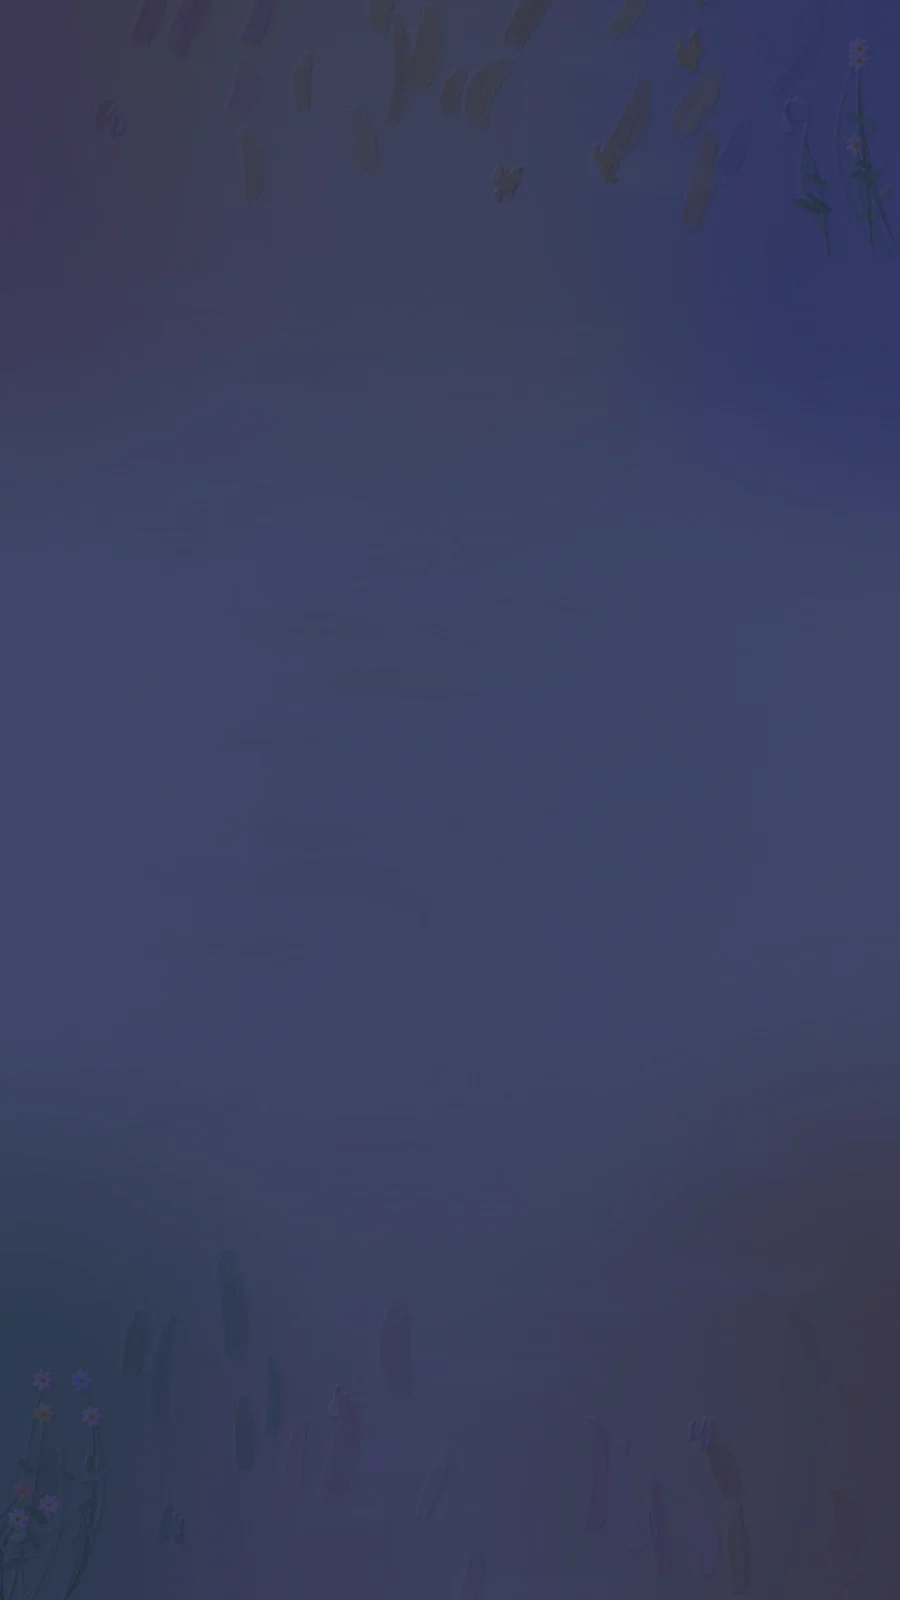
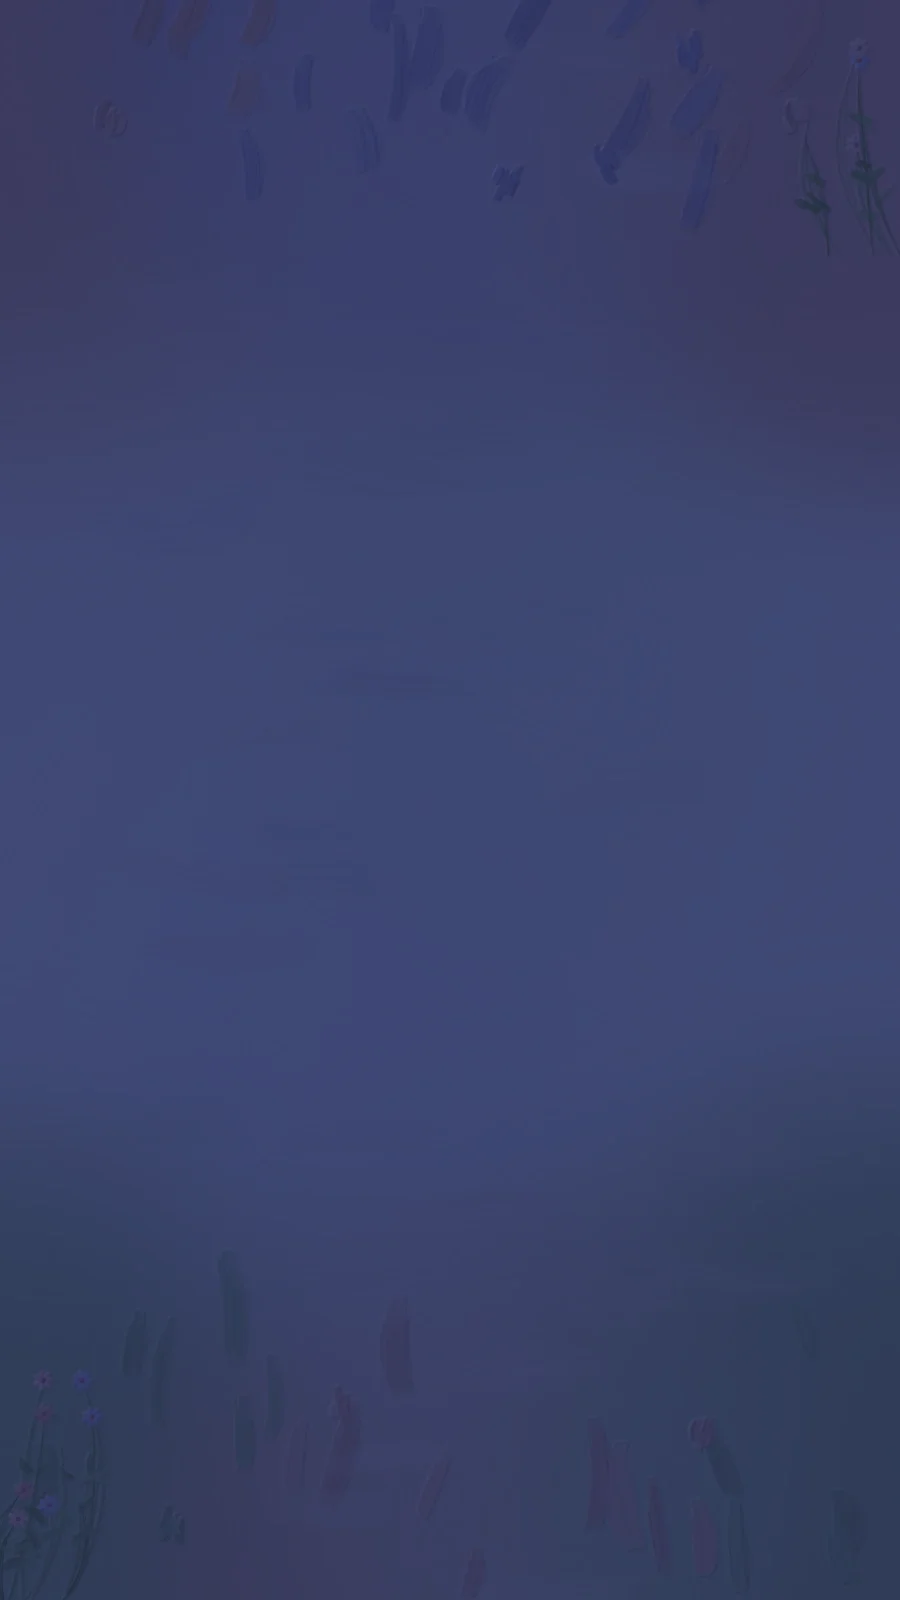
Three-colour case-study backdrop, no grass clumps at night, cute firefly
The case-study backdrop is repainted in three colours (blush rose, sage,
soft lavender) on a clean ivory ground: no yellow, orange or ochre left,
still blended and painterly (night versions regraded). Scene 2's loose
grass clumps fade away at night instead of turning muddy. The night
cursor is redrawn as an unmistakable firefly: round head with bright eyes
and curled antennae, veined wings that flutter in flight, and a plump
honey-gold tail glowing in a soft, breathing halo; its head stays on the
click point.

diff --git a/src/app/globals.css b/src/app/globals.css
@@ -297,6 +297,9 @@ html[data-night] .night-sky__details { opacity: 1; transition-delay: 0.9s; }
 /* the painted figures (dogs, sails, water, chair, table) dim into the moonlight alongside the painting */
 .landing-scenes > section > div:not(.night-sky) img { transition: filter var(--dusk); }
 html[data-night] .landing-scenes > section > div:not(.night-sky) img { filter: brightness(0.6) saturate(0.55) hue-rotate(-8deg); }
+/* the loose grass clumps don't belong to the quiet night: they fade away with the dusk and return by day */
+.landing-scenes .living-tuft { transition: opacity 1.4s ease, filter var(--dusk); }
+html[data-night] .landing-scenes .living-tuft { opacity: 0; }
 /* the title, moonlit: a simple brightness lift (no glow filters to animate) */
 html[data-night] .pt-paint { filter: brightness(1.42) saturate(0.9); }
 html[data-night] .pt-letter:hover .pt-paint { filter: brightness(1.6) saturate(0.95); }
@@ -349,30 +352,33 @@ html[data-night] .lamppost__pool { opacity: 1; }
 .lamppost:is(:hover, :focus-visible) .lamppost__hint { opacity: 1; transform: translateX(0) rotate(-3deg); }
 html[data-night-ink] .lamppost__hint { color: #fbf0d6; text-shadow: 0 0 10px rgb(18 24 44 / 0.95), 0 1px 2px rgb(18 24 44 / 0.9); }
 
-/* the firefly cursor: a small insect, its tail glowing warm gold, brighter while it flies */
-.butterfly__firefly { position: absolute; width: 16px; transform: translate(-50%, -12%); opacity: 0; transition: opacity 0.8s ease; pointer-events: none; }
+/* the firefly cursor: a cute little firefly (head on the click point), its plump tail glowing honey-gold
+   inside a soft warm halo that breathes, brightening while it flies */
+.butterfly__firefly { position: absolute; width: 24px; transform: translate(-50%, -16%); opacity: 0; transition: opacity 0.8s ease; pointer-events: none; }
 html[data-night-ink] .butterfly__firefly { opacity: 1; }
-.firefly__bug { position: relative; display: block; width: 100%; overflow: visible; }
-.firefly__wing { fill: rgb(236 240 255 / 0.55); stroke: rgb(255 255 255 / 0.5); stroke-width: 0.6; transform-origin: 10px 7px; }
-.butterfly[data-state="moving"] .firefly__wing--l { animation: ff-wing 0.12s ease-in-out infinite alternate; }
-.butterfly[data-state="moving"] .firefly__wing--r { animation: ff-wing 0.12s ease-in-out infinite alternate-reverse; }
-@keyframes ff-wing { from { transform: rotate(-14deg); } to { transform: rotate(10deg); } }
-.firefly__tail { fill: #fff2a8; filter: drop-shadow(0 0 2px #ffe27a); }
+.firefly__bug { position: relative; display: block; width: 100%; overflow: visible; filter: drop-shadow(0 0 1px rgb(255 248 220 / 0.6)); }
+.firefly__wing { transform-box: fill-box; transition: transform 0.2s ease; }
+.firefly__wing--l { transform-origin: 100% 30%; }
+.firefly__wing--r { transform-origin: 0% 30%; }
+.butterfly[data-state="moving"] .firefly__wing--l { animation: ff-wing-l 0.11s ease-in-out infinite alternate; }
+.butterfly[data-state="moving"] .firefly__wing--r { animation: ff-wing-r 0.11s ease-in-out infinite alternate; }
+@keyframes ff-wing-l { from { transform: rotate(8deg) scaleX(1); } to { transform: rotate(-16deg) scaleX(0.7); } }
+@keyframes ff-wing-r { from { transform: rotate(-8deg) scaleX(1); } to { transform: rotate(16deg) scaleX(0.7); } }
 .firefly__halo {
   position: absolute;
   left: 50%;
-  top: 72%;
-  width: 34px;
+  top: 69%;
+  width: 46px;
   aspect-ratio: 1;
   transform: translate(-50%, -50%);
   border-radius: 50%;
-  background: radial-gradient(closest-side, rgb(255 236 150 / 0.75), rgb(255 222 120 / 0.28) 50%, rgb(255 222 120 / 0));
-  opacity: 0.7;
+  background: radial-gradient(closest-side, rgb(255 244 170 / 0.9), rgb(255 226 120 / 0.42) 42%, rgb(255 214 100 / 0.12) 72%, rgb(255 214 100 / 0));
+  opacity: 0.8;
   transition: opacity 0.4s ease, scale 0.4s ease;
-  animation: firefly-breathe 2.8s ease-in-out infinite;
+  animation: firefly-breathe 2.6s ease-in-out infinite;
 }
-.butterfly[data-state="moving"] .firefly__halo { opacity: 1; scale: 1.2; }
-@keyframes firefly-breathe { 0%, 100% { scale: 1; } 50% { scale: 0.85; } }
+.butterfly[data-state="moving"] .firefly__halo { opacity: 1; scale: 1.15; }
+@keyframes firefly-breathe { 0%, 100% { scale: 1; } 50% { scale: 0.86; } }
 .butterfly__perch { transition: transform 0.25s ease, opacity 0.8s ease; }
 html[data-night-ink] .butterfly__perch { opacity: 0; }
 
@@ -741,6 +747,7 @@ html.butterfly-cursor :is(a, button, [role="button"], input, select, textarea, l
   html { scroll-behavior: auto; }
   .pt-paint { transition: none; }
   .night-sky__star, .night-sky__fly, .firefly__halo, .firefly__wing { animation: none !important; }
+  .landing-scenes .living-tuft { transition: none; }
   .night-sky, .night-sky__details, .work-night, .journal-backdrop::after { transition-duration: 0.01s !important; }
   .sway, .drift, .blades, .bubble, .bloom, .garden-sign__board, .living-dog, .living-tail, .living-ball, .living-rocker, .living-water-a, .living-water-b, .living-drop,
   .pt-rise, .work-glow, .work-cue, .work-layer, .work-girl__body, .work-bubble, .work-heart, .work-ripple,

diff --git a/src/components/landing/ButterflyCursor.tsx b/src/components/landing/ButterflyCursor.tsx
@@ -74,12 +74,35 @@ export default function ButterflyCursor() {
       {/* at night the butterfly becomes a firefly: a small warm glow at the very same click point */}
       <span className="butterfly__firefly" style={{ left: `${HOT[0] * 100}%`, top: `${HOT[1] * 100}%` }}>
         <span className="firefly__halo" />
-        <svg viewBox="0 0 20 30" className="firefly__bug">
-          <ellipse className="firefly__wing firefly__wing--l" cx="6" cy="10" rx="5" ry="7.5" />
-          <ellipse className="firefly__wing firefly__wing--r" cx="14" cy="10" rx="5" ry="7.5" />
-          <ellipse cx="10" cy="11" rx="3" ry="6" fill="#3a3320" />
-          <circle cx="10" cy="3.6" r="2.6" fill="#2a2416" />
-          <ellipse className="firefly__tail" cx="10" cy="21" rx="4" ry="6" />
+        <svg viewBox="0 0 40 52" className="firefly__bug">
+          <defs>
+            <radialGradient id="ff-glow" cx="50%" cy="45%" r="55%">
+              <stop offset="0%" stopColor="#fffdf0" />
+              <stop offset="45%" stopColor="#fff09a" />
+              <stop offset="100%" stopColor="#f3c84a" />
+            </radialGradient>
+          </defs>
+          {/* wings: translucent, softly veined, fluttering while it flies */}
+          <g className="firefly__wing firefly__wing--l">
+            <path d="M18 17 C 6 10, 1 18, 4 26 C 8 31, 15 26, 18 21 Z" fill="rgb(232 238 255 / 0.62)" stroke="rgb(255 255 255 / 0.75)" strokeWidth="0.8" />
+            <path d="M16 19 C 11 18, 7 21, 6 24" fill="none" stroke="rgb(255 255 255 / 0.55)" strokeWidth="0.6" />
+          </g>
+          <g className="firefly__wing firefly__wing--r">
+            <path d="M22 17 C 34 10, 39 18, 36 26 C 32 31, 25 26, 22 21 Z" fill="rgb(232 238 255 / 0.62)" stroke="rgb(255 255 255 / 0.75)" strokeWidth="0.8" />
+            <path d="M24 19 C 29 18, 33 21, 34 24" fill="none" stroke="rgb(255 255 255 / 0.55)" strokeWidth="0.6" />
+          </g>
+          {/* antennae with little curls */}
+          <path d="M18 7 C 16 3, 13 2, 11 3.5" fill="none" stroke="#3a2c22" strokeWidth="1.3" strokeLinecap="round" />
+          <path d="M22 7 C 24 3, 27 2, 29 3.5" fill="none" stroke="#3a2c22" strokeWidth="1.3" strokeLinecap="round" />
+          {/* the glowing tail, plump and round */}
+          <ellipse className="firefly__tail" cx="20" cy="36" rx="8" ry="10" fill="url(#ff-glow)" />
+          <ellipse cx="20" cy="33" rx="3.2" ry="3.6" fill="#fffef6" opacity="0.9" />
+          {/* body and head */}
+          <ellipse cx="20" cy="21" rx="5.5" ry="6" fill="#4a3829" />
+          <circle cx="20" cy="10" r="5.2" fill="#3a2c22" />
+          <circle cx="18" cy="9.4" r="1.1" fill="#fff8e6" />
+          <circle cx="22" cy="9.4" r="1.1" fill="#fff8e6" />
+          <path d="M18.6 12.2 Q 20 13.2 21.4 12.2" fill="none" stroke="#f4b5a8" strokeWidth="0.8" strokeLinecap="round" />
         </svg>
       </span>
       <span className="butterfly__perch block">

diff --git a/docs/FOUR-PAGE-STRUCTURE.md b/docs/FOUR-PAGE-STRUCTURE.md
@@ -55,9 +55,9 @@ Removed (all recoverable from the tag): the homepage sections `GardenGate`, `Gar
 
 The Landing statements live in `src/data/site.ts` → `landingScenes`. Edit them there.
 - **Case studies (Dog Nutrition Tracker, Eliminate Bacteria Pro, Little Moments).** Each is a page from the garden's
-  field journal: a fixed oil-painted backdrop (a calm cream reading area framed by large, soft fields of blush,
-  coral, muted orange, golden yellow, sage, moss and a little lavender, with selective brushwork, a few impasto
-  passes and painted stems at the edges; `node scripts/paint-landing.mjs --journal`), contents in the margin, sage vines under headings and
+  field journal: a fixed oil-painted backdrop in three colours — blush rose, sage and soft lavender — blending
+  gradually into a calm, faintly brushed ivory reading area, with selective brushwork, a few impasto passes and
+  painted stems at the edges; `node scripts/paint-landing.mjs --journal`), contents in the margin, sage vines under headings and
   leaf bullets. Project images sit straight on the page with no card, border or tape; only those with an opaque
   background get a faint, diffused neutral shadow. The images themselves are untouched.
 - **Landing title and cursor.** "A Garden of Ideas" is hand-lettered with a brush in oil, lowercase on two staggered
@@ -75,7 +75,8 @@ The Landing statements live in `src/data/site.ts` → `landingScenes`. Edit them
   area reaches past the slender post. Clicking runs one coordinated dusk (`night.ts`): the lamp lights, the scenes
   cross-fade (2.2 s) to pre-painted moonlit versions (`node scripts/night-grade.mjs`), the moon, stars and
   fireflies appear, and once it is dusk the page's text palette and the cursor follow (the butterfly becomes a
-  small firefly with a glowing tail). Only opacity, transform and a few small filters animate; the night art is
+  small, cute firefly — round head with bright eyes and curled antennae, veined wings that flutter in flight,
+  and a plump honey-gold tail glowing in a soft halo); the loose grass clumps of Scene 2 fade away at night. Only opacity, transform and a few small filters animate; the night art is
   loaded with the page. Night is remembered and carries to the Work garden and the case studies (their night
   paintings and backdrop cross-fade in; project images are never filtered); About and Contact keep their day look.
   While it is night a small "Day" lantern switch sits in the header.
